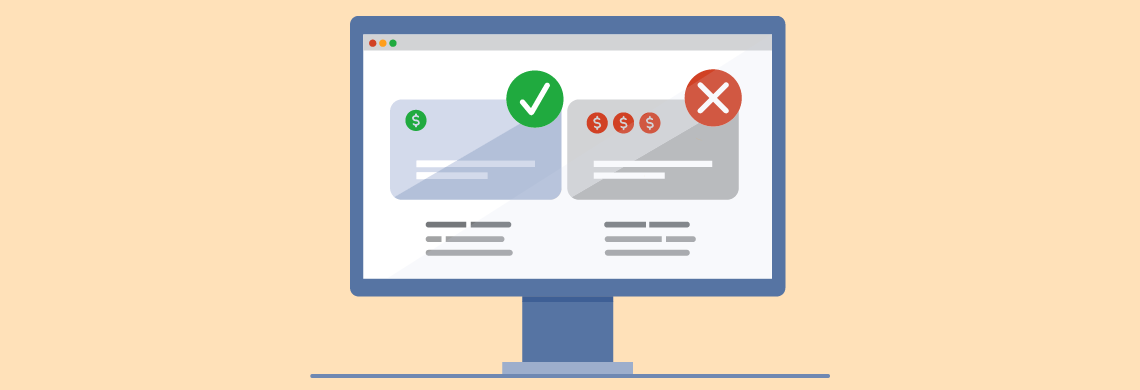
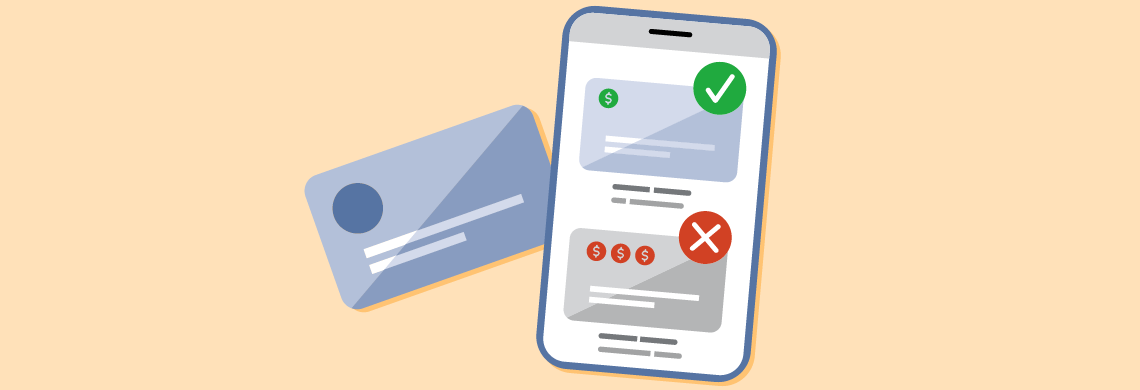
TCCP: New mobile illustration

Changed region(s): [[0.2456, 0.0, 0.7368, 1.0]]

diff --git a/cfgov/tccp/jinja2/tccp/landing_page.html b/cfgov/tccp/jinja2/tccp/landing_page.html
@@ -28,7 +28,7 @@
             "width": 940
         },
         "small_image": {
-            "url": static("apps/tccp/img/explore-credit-cards-hero-lg.png"),
+            "url": static("apps/tccp/img/explore-credit-cards-hero-sm.png"),
             "height": 390,
             "width": 1140
         },
